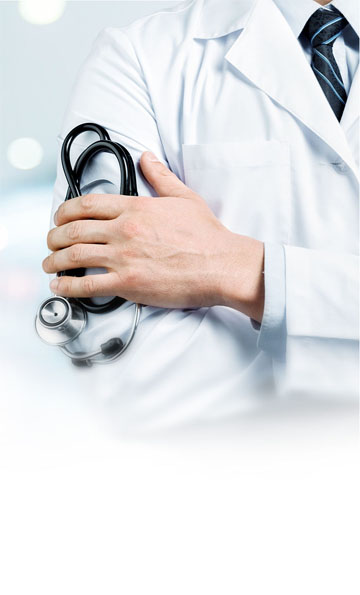
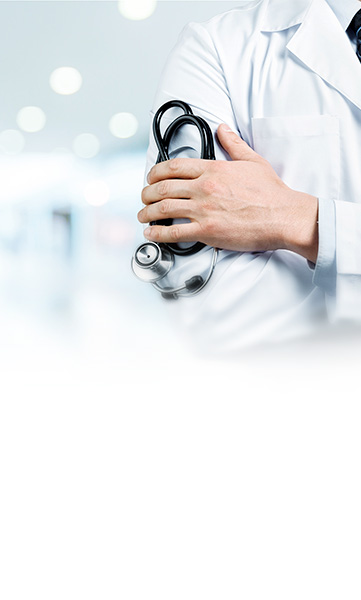
PROGRESS

diff --git a/src/components/Home/Home.html b/src/components/Home/Home.html
@@ -1,60 +1,62 @@
 <section class="section-home section-bg-cover">
   <div class="banner-inner">
-    <div class="banner-info">
-      <div class="banner-description">
-        <p>QUALITY CARE</p>
-        <p class="bolded">COMPASSIONATE</p>
-        <p>PHYSICIANS</p>
+    <div class="banner-container">
+      <div class="banner-info">
+        <div class="banner-description">
+          <p>QUALITY CARE</p>
+          <p class="bolded">COMPASSIONATE</p>
+          <p>PHYSICIANS</p>
+        </div>
+        <div class="btn-places">
+          <a class="btn-link" href="/#/members/">MEMBERS & GUESTS</a>
+          <a class="btn-link" href="javascript:void(0)">PROVIDERS</a>
+        </div>
       </div>
-      <div class="btn-places">
-        <a class="btn-link" href="/#/members/">MEMBERS & GUESTS</a>
-        <a class="btn-link" href="javascript:void(0)">PROVIDERS</a>
-      </div>
-    </div>
-    <div class="about">
-      <div class="left">
-        <img src="../../assets/images/logo.png">
-      </div>
-      <div class="right">
-        <h5 class="sub-title">about us</h5>
-        <p class="reg-paragraph">
-          Welcome to Prospect Medical Group, an independent physician association (IPA) managed by Prospect Medical Systems.
-          <br> Our network consists of highly qualified primary care and specialty physicians, and we are affiliated with the
-          best hospitals in Orange County.
-        </p>
-        <p class="reg-paragraph par-regular par-2">
-          With Prospect Medical Group, you have access to more than 600 primary care physicians and more than 1,000 specialists. You’re
-          sure to find the doctors that are right for you.
-        </p>
-        <p class="reg-paragraph">
-          Prospect Medical Group has a long history as a respected leader in managed healthcare. For three decades, we have pro vided
-          quality care and outstanding service to our members.
-        </p>
-        <p class="reg-paragraph par-3">
-          We support the use of advanced diagnostic and treatment tools to provide our members with convenient access to state-of-the-art
-          healthcare. Our pledge to members is that we will give you exceptional care delivered by compassionate physicians,
-          who have a strong commitment to each and every patient.
-        </p>
-        <p class="reg-paragraph">
-          Our physicians work closely with teams of skilled nurses and other healthcare professionals
-        </p>
-        <p class="reg-paragraph par-regular par-4">Our focus is on your health and well-being.</p>
-        <p class="reg-paragraph" style="padding-bottom: 0; margin-bottom: 0;">
-          All of our support services, including care management, referrals for specialty care, customer service, and health education
-          resources are handled by our management service organization, Prospect Medical Systems.
-        </p>
+      <div class="about">
+        <div class="left">
+          <img src="../../assets/images/logo.png">
+        </div>
+        <div class="right">
+          <h5 class="sub-title">about us</h5>
+          <p class="reg-paragraph">
+            Welcome to Prospect Medical Group, an independent physician association (IPA) managed by Prospect Medical Systems.
+            <br> Our network consists of highly qualified primary care and specialty physicians, and we are affiliated with the
+            best hospitals in Orange County.
+          </p>
+          <p class="reg-paragraph par-regular par-2">
+            With Prospect Medical Group, you have access to more than 600 primary care physicians and more than 1,000 specialists. You’re
+            sure to find the doctors that are right for you.
+          </p>
+          <p class="reg-paragraph">
+            Prospect Medical Group has a long history as a respected leader in managed healthcare. For three decades, we have pro vided
+            quality care and outstanding service to our members.
+          </p>
+          <p class="reg-paragraph par-3">
+            We support the use of advanced diagnostic and treatment tools to provide our members with convenient access to state-of-the-art
+            healthcare. Our pledge to members is that we will give you exceptional care delivered by compassionate physicians,
+            who have a strong commitment to each and every patient.
+          </p>
+          <p class="reg-paragraph">
+            Our physicians work closely with teams of skilled nurses and other healthcare professionals
+          </p>
+          <p class="reg-paragraph par-regular par-4">Our focus is on your health and well-being.</p>
+          <p class="reg-paragraph" style="padding-bottom: 0; margin-bottom: 0;">
+            All of our support services, including care management, referrals for specialty care, customer service, and health education
+            resources are handled by our management service organization, Prospect Medical Systems.
+          </p>
 
-        <p class="reg-paragraph par-regular par-5">
-          This support gives our doctors the freedom to do what they do best: care for you.
-        </p>
-        <p class="reg-paragraph">
-          Prospect Medical Group contracts with most major health plans, and we serve all product lines, including commercial, Medicare,
-          Medicaid, Medicare/Medicaid (Medi-Medi) and Health Insurance Exchange.
-        </p>
-        <p class="reg-paragraph">
-          To further improve the health of the communities we serve, we also offer comprehensive health education classes and support
-          services through our numerous outreach programs.
-        </p>
+          <p class="reg-paragraph par-regular par-5">
+            This support gives our doctors the freedom to do what they do best: care for you.
+          </p>
+          <p class="reg-paragraph">
+            Prospect Medical Group contracts with most major health plans, and we serve all product lines, including commercial, Medicare,
+            Medicaid, Medicare/Medicaid (Medi-Medi) and Health Insurance Exchange.
+          </p>
+          <p class="reg-paragraph">
+            To further improve the health of the communities we serve, we also offer comprehensive health education classes and support
+            services through our numerous outreach programs.
+          </p>
+        </div>
       </div>
     </div>
   </div>

diff --git a/src/assets/stylesheets/partials/_home.scss b/src/assets/stylesheets/partials/_home.scss
@@ -1,10 +1,10 @@
-.section-home { 
+.section-home {
   background-image: url(../images/home-banner.jpg);
-  min-height: 1767px;   
+  min-height: 1767px;
   .about {
     clear: both;
-    padding-top: 344px;
-    padding-right: 50px;
+    padding-top: 350px;
+    justify-content: space-around;
     display: flex;
     .sub-title {
       font-size: 30px;
@@ -30,7 +30,7 @@
     }
     .left {
       padding-left: 100px;
-      padding-top: 180px;
+      padding-top: 164px;
       .logo {
         width: 380px;
         padding-top: 210px;
@@ -42,9 +42,18 @@
     }
   }
 }
+
 .banner-inner {
-    float: left; 
+  float: left;
+  width: 100%
 }
+
+.banner-container {
+  max-width: 1340px;
+  margin: 0 auto;
+  width: 100%;
+}
+
 .par-regular.reg-paragraph {
   opacity: 1;
 }
@@ -102,23 +111,113 @@ ul {
     text-decoration: none
   }
 }
+
 @media only screen and (max-width: 1260px) {
-    .section-home .about .right {
-        float: none;
-        clear: both;
-        margin: 0 auto
+  .section-home .about .right {
+    float: none;
+    clear: both;
+    margin: 0 auto
+  }
+  .about {
+    padding-right: 30px;
+  }
+}
+
+@media only screen and (max-width: 970px) {
+ .banner-container {
+    padding: 0 25px;
+ } 
+ .banner-info {
+    margin-left: 0;
+ }
+  .section-home {
+    .about {
+      flex-wrap: wrap;
+      padding-bottom: 69px;
+      padding-right: 0;
+      padding-top: 0;
+      .right {
+        padding-top: 50px;
+        width: 100%;
+      }
+      .left {
+        padding-bottom: 50px;
+        padding-left: 0;
+        margin-right: auto;
+      }
     }
+  }
 }
 
 @media only screen and (max-width: 873px) {
-    .section-home { 
-        background-image: url(../images/home-banner-830.jpg);
-        min-height: 1443px
+  .banner-info {
+    margin-top: 950px;
+  }
+  .section-home {
+    background-image: url(../images/home-banner-830.jpg);
+    min-height: 1443px
+  }
+}
+@media only screen and (max-width: 580px) { 
+    .banner-description {
+        p {
+           font-size: 40px;
+        }
+    } 
+     
+    .banner-info .btn-link {
+        width: 150px;
+        font-size: 12px;
+        padding: 15px 13px 14px;
+    }
+}
+
+@media only screen and (max-width: 558px) { 
+    .section-home {
+        background-image: url(../images/home-banner-558.jpg);
+        min-height: 854px;
+        .about .left {
+             padding-top: 130px;
+        }
+    }
+    .banner-info {
+        margin-top: 700px;
+    }
+    
+}
+@media only screen and (max-width: 480px) {
+    .section-home .about .left{
+        width: 300px;
+        padding-top: 105px;
+        img {
+            width: 100%;
+        }
     }
 }
 @media only screen and (max-width: 360px) {
-    .section-home { 
-        background-image: url(../images/home-banner-360.jpg);
-        min-height: 595px
-    }
+  .section-home {
+    background-image: url(../images/home-banner-360.jpg);
+    min-height: 595px;
+    .about {
+        padding-bottom: 35px;
+        .left { 
+            padding-top: 70px;
+            padding-bottom: 20px;
+            width: 280px
+        }
+        .sub-title {
+            font-size: 20px; 
+        }
+    } 
+  }
+  .banner-description p {
+        font-size: 20px;
+  }
+  .banner-info {
+    margin-top: 325px;
+  }
+  .btn-places { 
+    padding-top: 7px;
+  }
+   
 }
